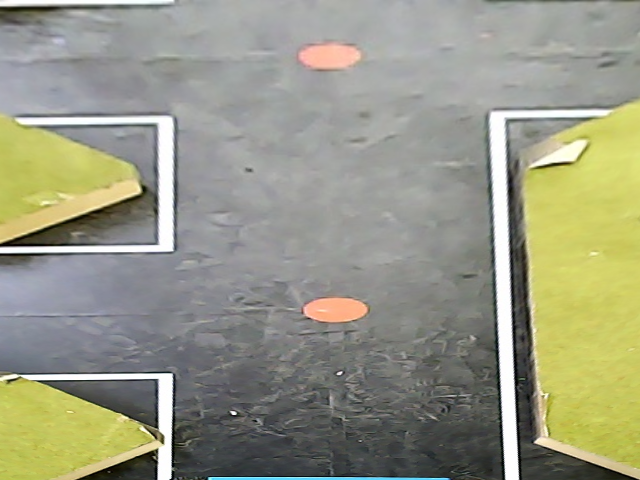
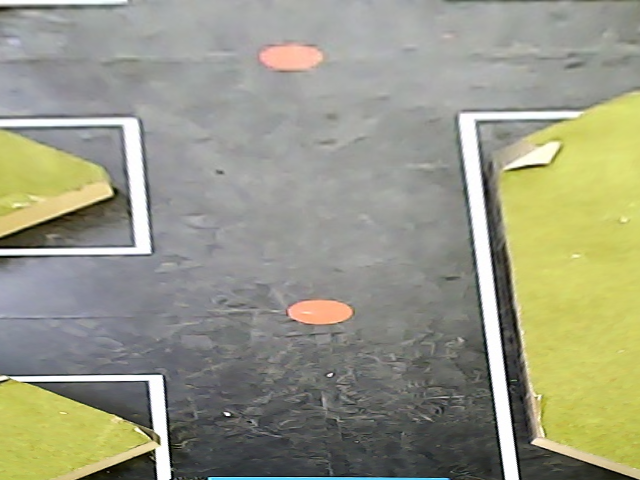
调节trans参数

diff --git a/laneLineDetect/trans.py b/laneLineDetect/trans.py
@@ -5,7 +5,7 @@ def main(img):
     h,w=img.shape[:2]
     #----------------------------------------------------------------------------
     # trans region from src to dst, (left_bottom,right_bottom,left_top,right_top)
-    src_points = np.array([[0., h], [w,h],[0.+190.,0.], [w-190.,0.]], dtype = "float32")
+    src_points = np.array([[0., h], [w,h],[0.+210.,0.], [w-175.,0.]], dtype = "float32")
     dst_points = np.array([[0., h], [w,h],[0.,0.], [w,0.]], dtype = "float32")
     #----------------------------------------------------------------------------
     M = cv2.getPerspectiveTransform(src_points,dst_points)

diff --git a/laneLineDetect/detect_new.py b/laneLineDetect/detect_new.py
@@ -216,6 +216,7 @@ def hough_lines(img, rho, theta, threshold, min_line_len, max_line_gap,horizon_t
 
 def detect_lines(img):
 	h,w=img.shape[:2]
+	showImage(img)
 	import trans
 	img = trans.main(img)
 	showImage(img)
